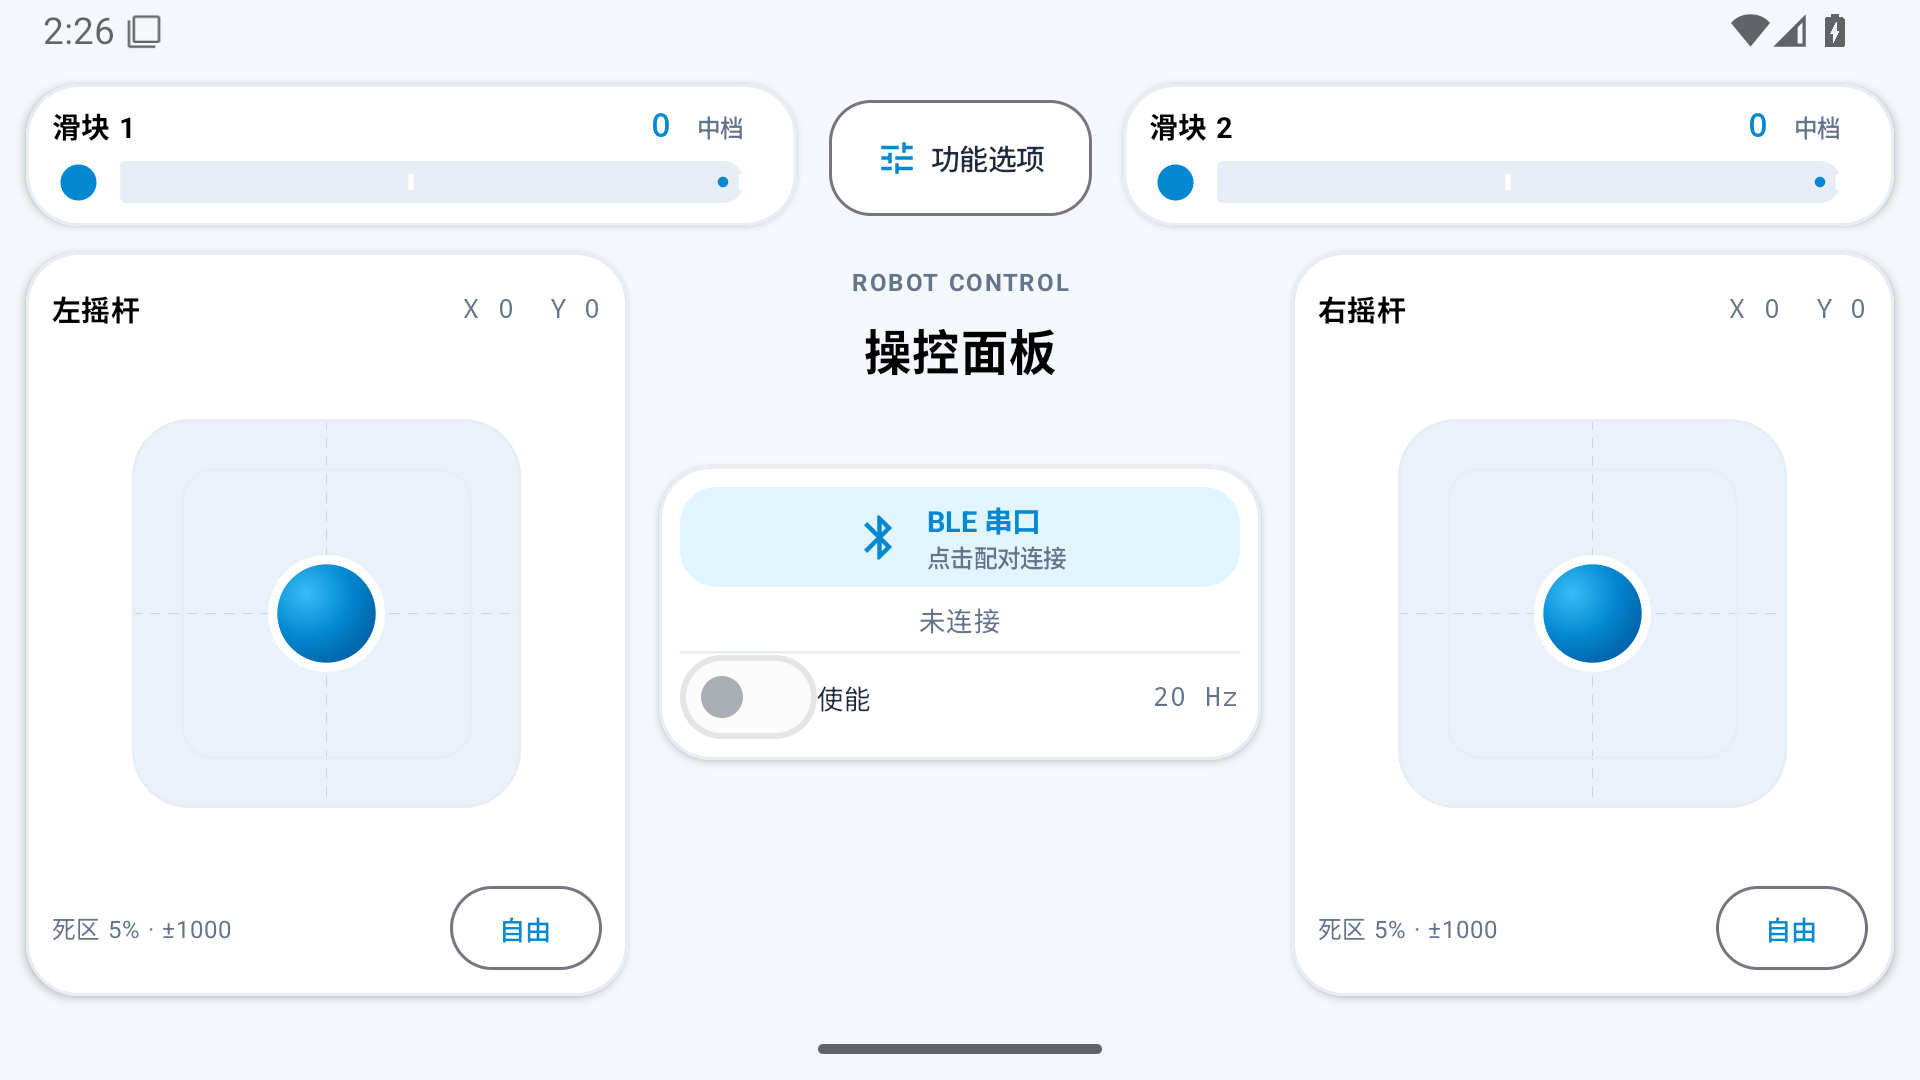
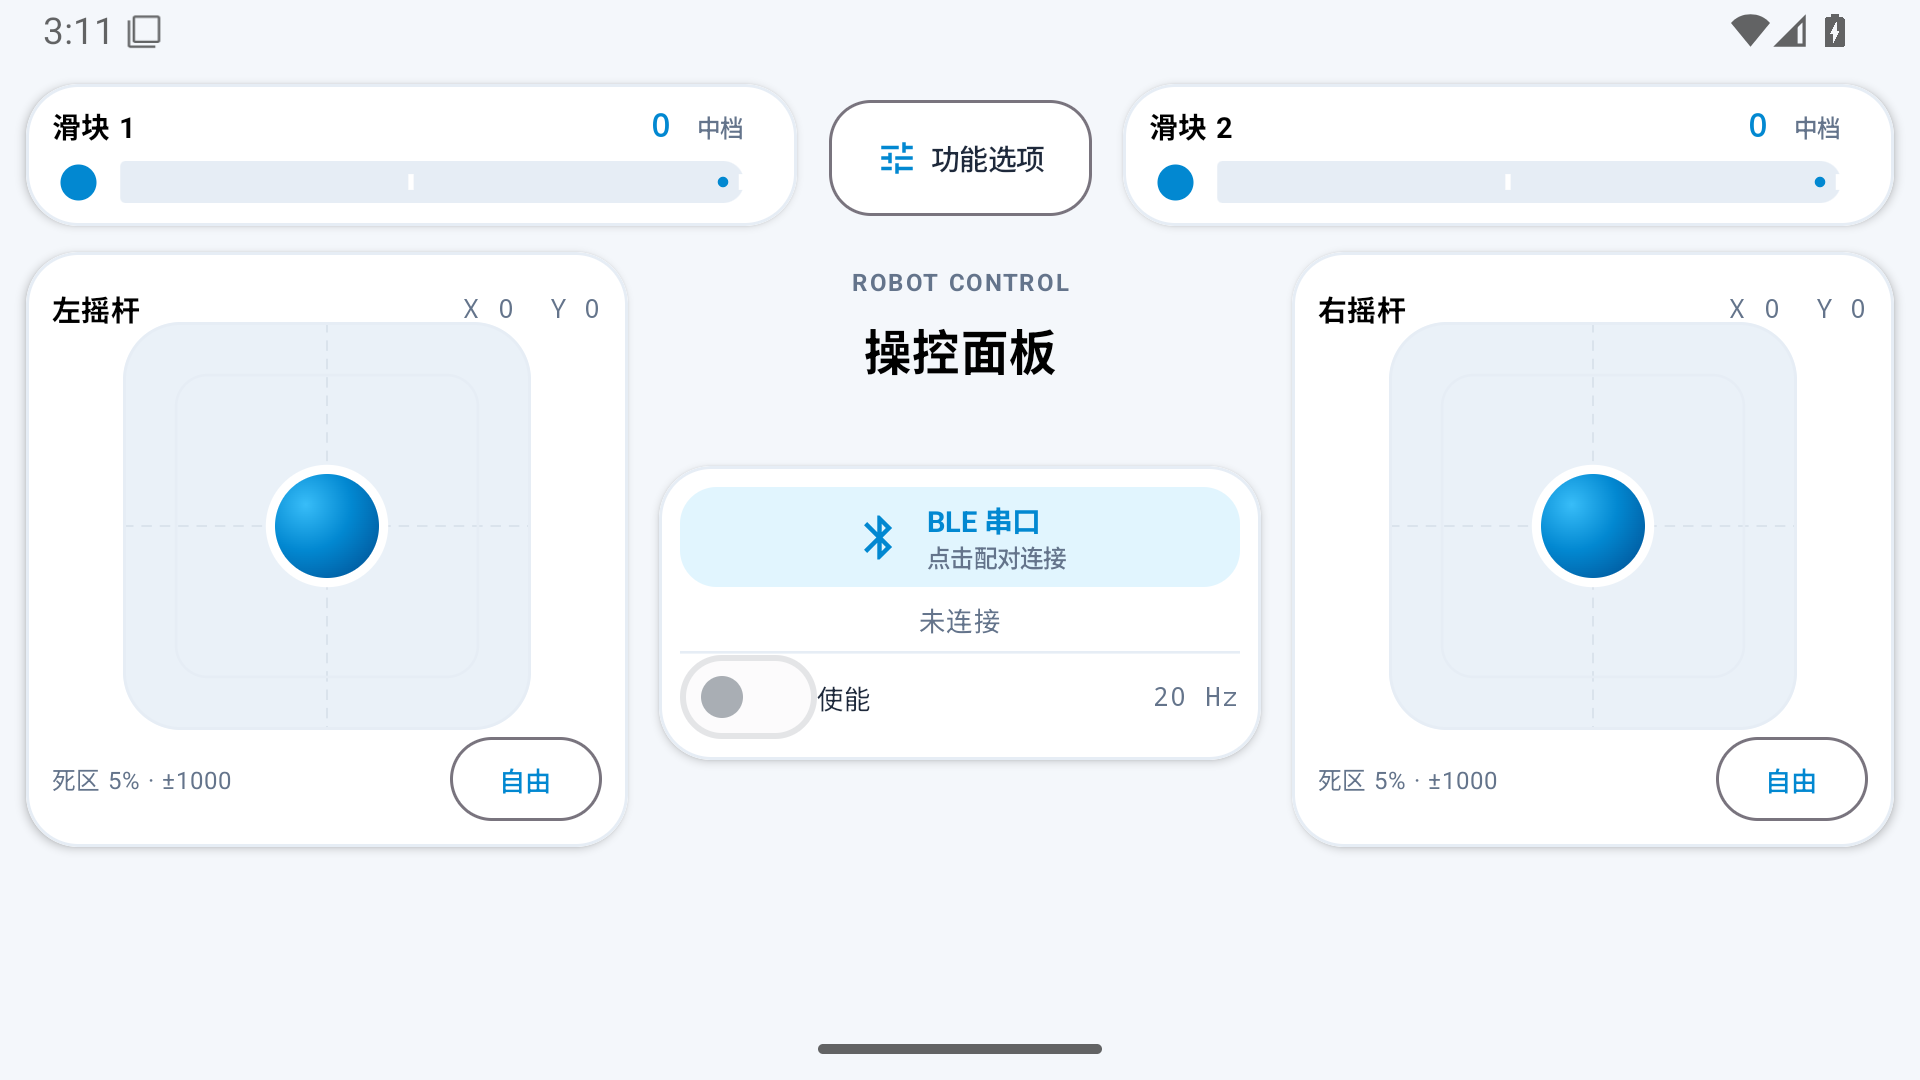
Document verified v1.4.0 joystick and layout improvements

diff --git a/README.md b/README.md
@@ -6,7 +6,7 @@
 
 ## 下载与开始测试
 
-安装 APK：[v1.3.2 下载](https://github.com/Norlive666/remote-control/releases/download/v1.3.2/remote-control-v1.3.2.apk)。Android 8.0 及以上；安装时允许来自浏览器或文件管理器的安装。
+安装 APK：[v1.4.0 下载](https://github.com/Norlive666/remote-control/releases/download/v1.4.0/remote-control-v1.4.0.apk)。Android 8.0 及以上；安装时允许来自浏览器或文件管理器的安装。
 
 驱动源码包：[H723 / F103 两套 `.c/.h` 与协议文档](https://github.com/Norlive666/remote-control/releases/download/v1.0.0/remote-control-stm32-v1.0.0.zip)。
 
@@ -16,8 +16,8 @@
 如果模块在蓝牙调试器中以 BLE 连接，请在 App 选择「BLE 串口」，扫描连接。此模式按用户提供 [bt_mcu 的 BLE 默认配置](https://gitee.com/xie-rongji/bt_mcu/blob/master/app/src/main/java/xnj/lazydog/btcontroller/Bluetooth/BlueToothMaster.java) 使用 FFE0 / FFE1，默认 20 Hz，STM32 仍按模块实际 UART 波特率初始化（默认 `RC_Init()` 的 9600）。模块名称叫 HC-05 并不决定它使用经典蓝牙还是 BLE。若调试器配置过其他 UUID，本模式尚未支持该自定义配置。
 
 4. 蓝牙连接成功后手动开启「使能」。松开摇杆自动归中；滑块保留位置。
-5. **调整位置和大小**：顶部「功能选项」→「编辑布局」，拖动带框的摇杆卡片、滑块、蓝牙使能卡片，蓝色摇杆区域可独立拖动；点选组件或用底部菜单选择组件，再用大小滑条调整，点击「保存」。点击「取消」或返回键放弃草稿；「恢复默认」先恢复草稿，保存后才生效。已保存的位置和大小在重新打开 App 后保留。编辑期间关闭使能、摇杆归零，保存或取消后需手动重新使能。
-6. 每个摇杆底部的方向按钮循环「自由／仅横向／仅纵向」；单轴模式下另一轴始终为 0。顶部「功能选项」分别设置两个摇杆的死区（0～30%，默认 5%）与最大绝对值（1～1000，默认 1000），点击「应用」后保存。参数或方向更改会归零该摇杆，松手后重新操作。
+5. **调整位置和大小**：顶部「功能选项」→「编辑布局」，拖动带框的摇杆卡片、滑块、蓝牙使能卡片，蓝色摇杆区域可在整个操控画布内独立拖动，允许移到白色卡片外；点选组件或用底部菜单选择组件，再用大小滑条在 30%～250% 调整，点击「保存」。点击「取消」或返回键放弃草稿；「恢复默认」先恢复草稿，保存后才生效。滑块及卡片内容随外框等比缩放；蓝色摇杆大小可独立调整。实际最大尺寸受画布边界限制。已保存的位置和大小在重新打开 App 后保留。编辑期间关闭使能、摇杆归零，保存或取消后需手动重新使能。
+6. 每个摇杆底部的方向按钮循环「自由／仅横向／仅纵向／八向」；单轴模式下另一轴始终为 0。八向模式每 45° 吸附方向，力度随距离连续变化；使用径向死区，同等最大力度下范围 ±1000 的轴向为 (1000,0)、斜向约为 (707,707)，松手归零。顶部「功能选项」分别设置两个摇杆的死区（0～30%，默认 5%）与最大绝对值（1～1000，默认 1000），点击「应用」后保存。参数或方向更改会归零该摇杆，松手后重新操作。
 7. 滑块默认三档 0、1、2，保留原滑轨并增加白色刻度。功能选项可分别选择连续或分档，设置 2～8 档及各档实际值（0～1000，不可重复）；点击「应用」后回到第一档。连续模式仍显示 0～100，线上发送 0～1000。
 8. 自由模式对 X/Y 分别应用死区，小幅偏移归零，斜向仍可同时输出两个轴；越过死区后连续映射到设置的最大值。设置页显示最近提交给蓝牙的数据帧，BLE 串口显示 FFE1、BT630 显示 FFF1 通知的原始数据。
 

diff --git a/docs/superpowers/plans/2026-10-11-eight-way-resize.md b/docs/superpowers/plans/2026-10-11-eight-way-resize.md
@@ -7,26 +7,26 @@
 ## Task 1: Eight-way output
 
 - [x] JoystickConfigTest增加八方向、分界角度、径向死区、连续力度和自定义范围测试；旧模式fallback只用于测试旧代码。
-- [ ] 通过CI查看旧版断言失败。
-- [ ] JoystickMode末尾加入EIGHT_WAY，旧模式序号及保存的名字不变；map使用atan2按PI/4吸附，hypot限1000，径向死区后映射maxValue，再按cos/sin投影并roundToInt。
-- [ ] MainActivity显示八向斜线；设置说明包括八向径向死区；ControllerUiTest验证模式循环、保存、手势和松手归零。
+- [x] 通过CI查看旧版断言失败。
+- [x] JoystickMode末尾加入EIGHT_WAY，旧模式序号及保存的名字不变；map使用atan2按PI/4吸附，hypot限1000，径向死区后映射maxValue，再按cos/sin投影并roundToInt。
+- [x] MainActivity显示八向斜线；设置说明包括八向径向死区；ControllerUiTest验证模式循环、保存、手势和松手归零。
 
 ## Task 2: Resizing
 
 - [x] PanelLayoutTest验证.3和2.5可保存，越界值限幅，取消保留已保存数据。
-- [ ] LayoutEditSession.resize、RemoteViewModel设置加载、EditablePanel大小滑条统一.3..2.5。
-- [ ] PositionedItem保留现有位置计算；比例最小值为基础尺寸*.3，最大值受画布限制；内容按原始尺寸测量并通过placeWithLayer等比缩放，外框用实际尺寸，避免内容裁剪。
-- [ ] StickControl蓝色区域去掉80dp下限，使用基础边长*.3至可用边长，仍在卡片内部独立移动。
-- [ ] ControllerUiTest验证两滑块都能缩小、扩大、保存重载，蓝色摇杆扩展大小及取消恢复。
+- [x] LayoutEditSession.resize、RemoteViewModel设置加载、EditablePanel大小滑条统一.3..2.5。
+- [x] PositionedItem保留现有位置计算；比例最小值为基础尺寸*.3，最大值受画布限制；内容按原始尺寸测量并通过placeWithLayer等比缩放，外框用实际尺寸，避免内容裁剪。
+- [x] StickControl蓝色区域去掉80dp下限，使用基础边长*.3至可用边长，仍在卡片内部独立移动。
+- [x] ControllerUiTest验证两滑块都能缩小、扩大、保存重载，蓝色摇杆扩展大小及取消恢复。
 
 ## Task 3: Verification and release
 
-- [ ] 检查差异与独立代码复核，运行全部单元、Android横屏界面、C主机及目标编译检查。
-- [ ] 提升到v1.4.0/versionCode7，原本机密钥签名；核对版本、证书、上传文件哈希；更新截图、说明、验证记录并发布APK。
+- [x] 检查差异与独立代码复核，运行全部单元、Android横屏界面、C主机及目标编译检查。
+- [x] 提升到v1.4.0/versionCode7，原本机密钥签名；核对版本、证书、上传文件哈希；更新截图、说明、验证记录并发布APK。
 
 ## Task 4: 用户追加的下移自由度
 
 - [x] 两白色卡片向下拖动、两蓝色区域移动到画布底部并保存重载的回归测试。
-- [ ] 将蓝色区域提升为整个画布上的独立组件；白色卡片默认高度为主区域80%。
-- [ ] 旧坐标通过初始旧布局的实测bounds一次性换算为画布坐标并持久化。首次无旧位置无需换算；转换完成后再进入编辑。
-- [ ] 更新原有卡片内部边界断言为画布边界；执行全部测试、代码复核并签名发布。
+- [x] 将蓝色区域提升为整个画布上的独立组件；白色卡片默认高度为主区域80%。
+- [x] 旧坐标通过初始旧布局的实测bounds一次性换算为画布坐标并持久化。首次无旧位置无需换算；转换完成后再进入编辑。
+- [x] 更新原有卡片内部边界断言为画布边界；执行全部测试、代码复核并签名发布。

diff --git a/docs/validation.md b/docs/validation.md
@@ -1,3 +1,12 @@
+# v1.4.0 — 八向摇杆、缩放与下移
+
+- 八向方向每45度吸附，径向死区与连续力度；±1000范围下轴向满量程1000、斜向约707/707。越过满量程半径仍保持原角度，松手归零。
+- 组件等比缩放30%–250%；两滑块可缩小，蓝色摇杆在整个操控画布独立移动/缩放，白色卡片默认高度80%留出下移空间。升级一次性换算旧蓝色位置及显示尺寸，其他设置保留。
+- [最终验证 38107341311](https://github.com/Norlive666/remote-control/actions/runs/38107341311)，提交 `53acd840087dcda938f557da7957a60f58feed24`：35单元测试、19项Android15横屏界面测试均为0失败/0错误；两套STM32主机测试和目标编译通过。界面覆盖八向触摸/边缘方向/归零、滑块縮小、缩放后触摸、两卡片下移、蓝色区域画布底部位置、旧设置转换与重载。独立复核确认角度及迁移尺寸问题已修正。
+- 回归测试曾在旧行为失败：缺八向/.3缩放（38106025846）、边缘角度误吸附（38106245256）、左卡片无法下移（38106646279）。
[1 lines of base64/hex data omitted]
+- 新版未在真实手机、蓝牙模块与开发板通信验证；模拟器触摸/源码编译不能替代实物手感与通信测试。
+
 # v1.3.2 — 删除经典蓝牙
 
 - 删除 Android HC-05 经典 SPP 连接与界面选项，默认 BLE 串口 FFE0/FFE1、20 Hz；保留 BT630 FFF0/FFF2、50 Hz。

diff --git a/docs/superpowers/specs/2026-10-11-eight-way-resize-design.md b/docs/superpowers/specs/2026-10-11-eight-way-resize-design.md
@@ -8,7 +8,7 @@
 
 ## 尺寸
 
-尺寸设置范围从50%–150%放宽为30%–250%。去掉54高度和160宽度等固定最小尺寸对滑块缩小的阻碍，文字、滑轨、按钮随卡片内容一同等比缩放，避免仅改变外框而裁掉内容。白色卡片仍受屏幕边界限制；蓝色摇杆可独立缩放，仍受所在卡片内部边界限制，去掉80的固定最小边长。保持现有拖动、选择组件、保存、取消和恢复默认行为，已保存布局保留。过大缩放受可用空间约束，编辑器应说明限制。
+尺寸设置范围从50%–150%放宽为30%–250%。去掉54高度和160宽度等固定最小尺寸对滑块缩小的阻碍，文字、滑轨、按钮随卡片内容一同等比缩放，避免仅改变外框而裁掉内容。白色卡片与蓝色摇杆均受操控画布边界限制；蓝色摇杆可独立缩放并移至卡片外，去掉80的固定最小边长。保持现有拖动、选择组件、保存、取消和恢复默认行为，已保存布局保留。过大缩放受可用空间约束，编辑器应说明限制。
 
 ## 验证与交付
 
